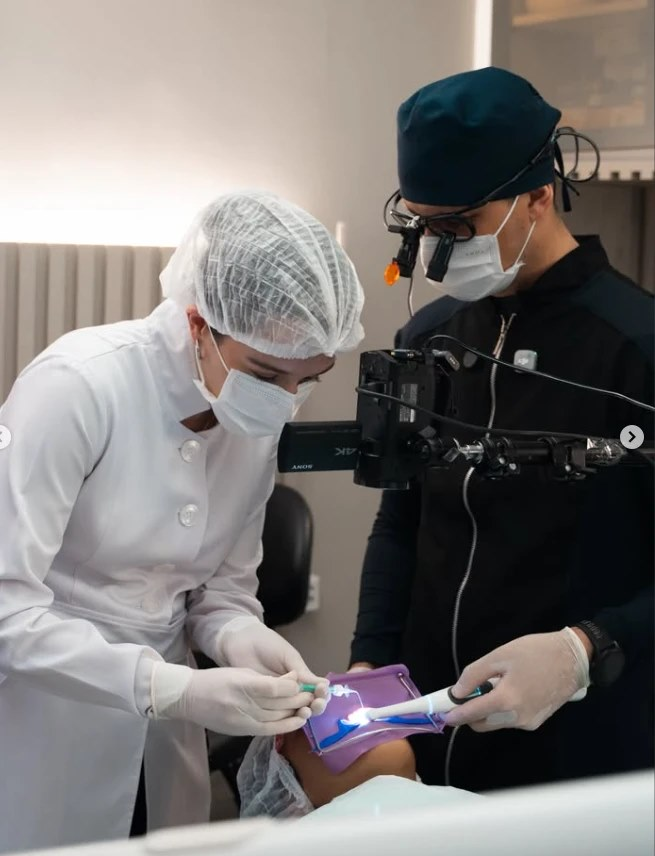
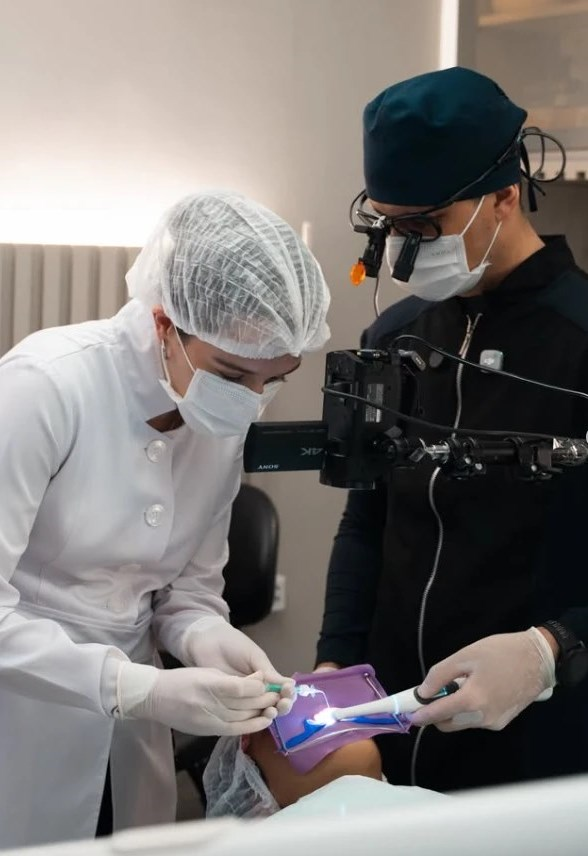
Remove setas do carrossel do Instagram das fotos

diff --git a/index.html b/index.html
@@ -239,7 +239,7 @@
     <p class="proof">Mestre e Doutor em Odontologia · Professor da UFG</p>
   </div>
   <div class="hero-photo">
-    <img src="assets/crisnicaw-retrato.jpg" alt="Prof. Dr. Crisnicaw Veríssimo" width="673" height="855" fetchpriority="high">
+    <img src="assets/crisnicaw-retrato.jpg" alt="Prof. Dr. Crisnicaw Veríssimo" width="620" height="855" fetchpriority="high">
   </div>
 </section>
 
@@ -325,7 +325,7 @@
   <div class="wrap">
     <article class="curso">
       <div class="photo">
-        <img src="assets/crisnicaw-curso-pratica.jpg" alt="Prof. Crisnicaw orientando uma aluna em atendimento clínico durante o curso" loading="lazy" width="655" height="856">
+        <img src="assets/crisnicaw-curso-pratica.jpg" alt="Prof. Crisnicaw orientando uma aluna em atendimento clínico durante o curso" loading="lazy" width="588" height="856">
       </div>
       <div class="body">
         <span class="eyebrow">Curso</span>
